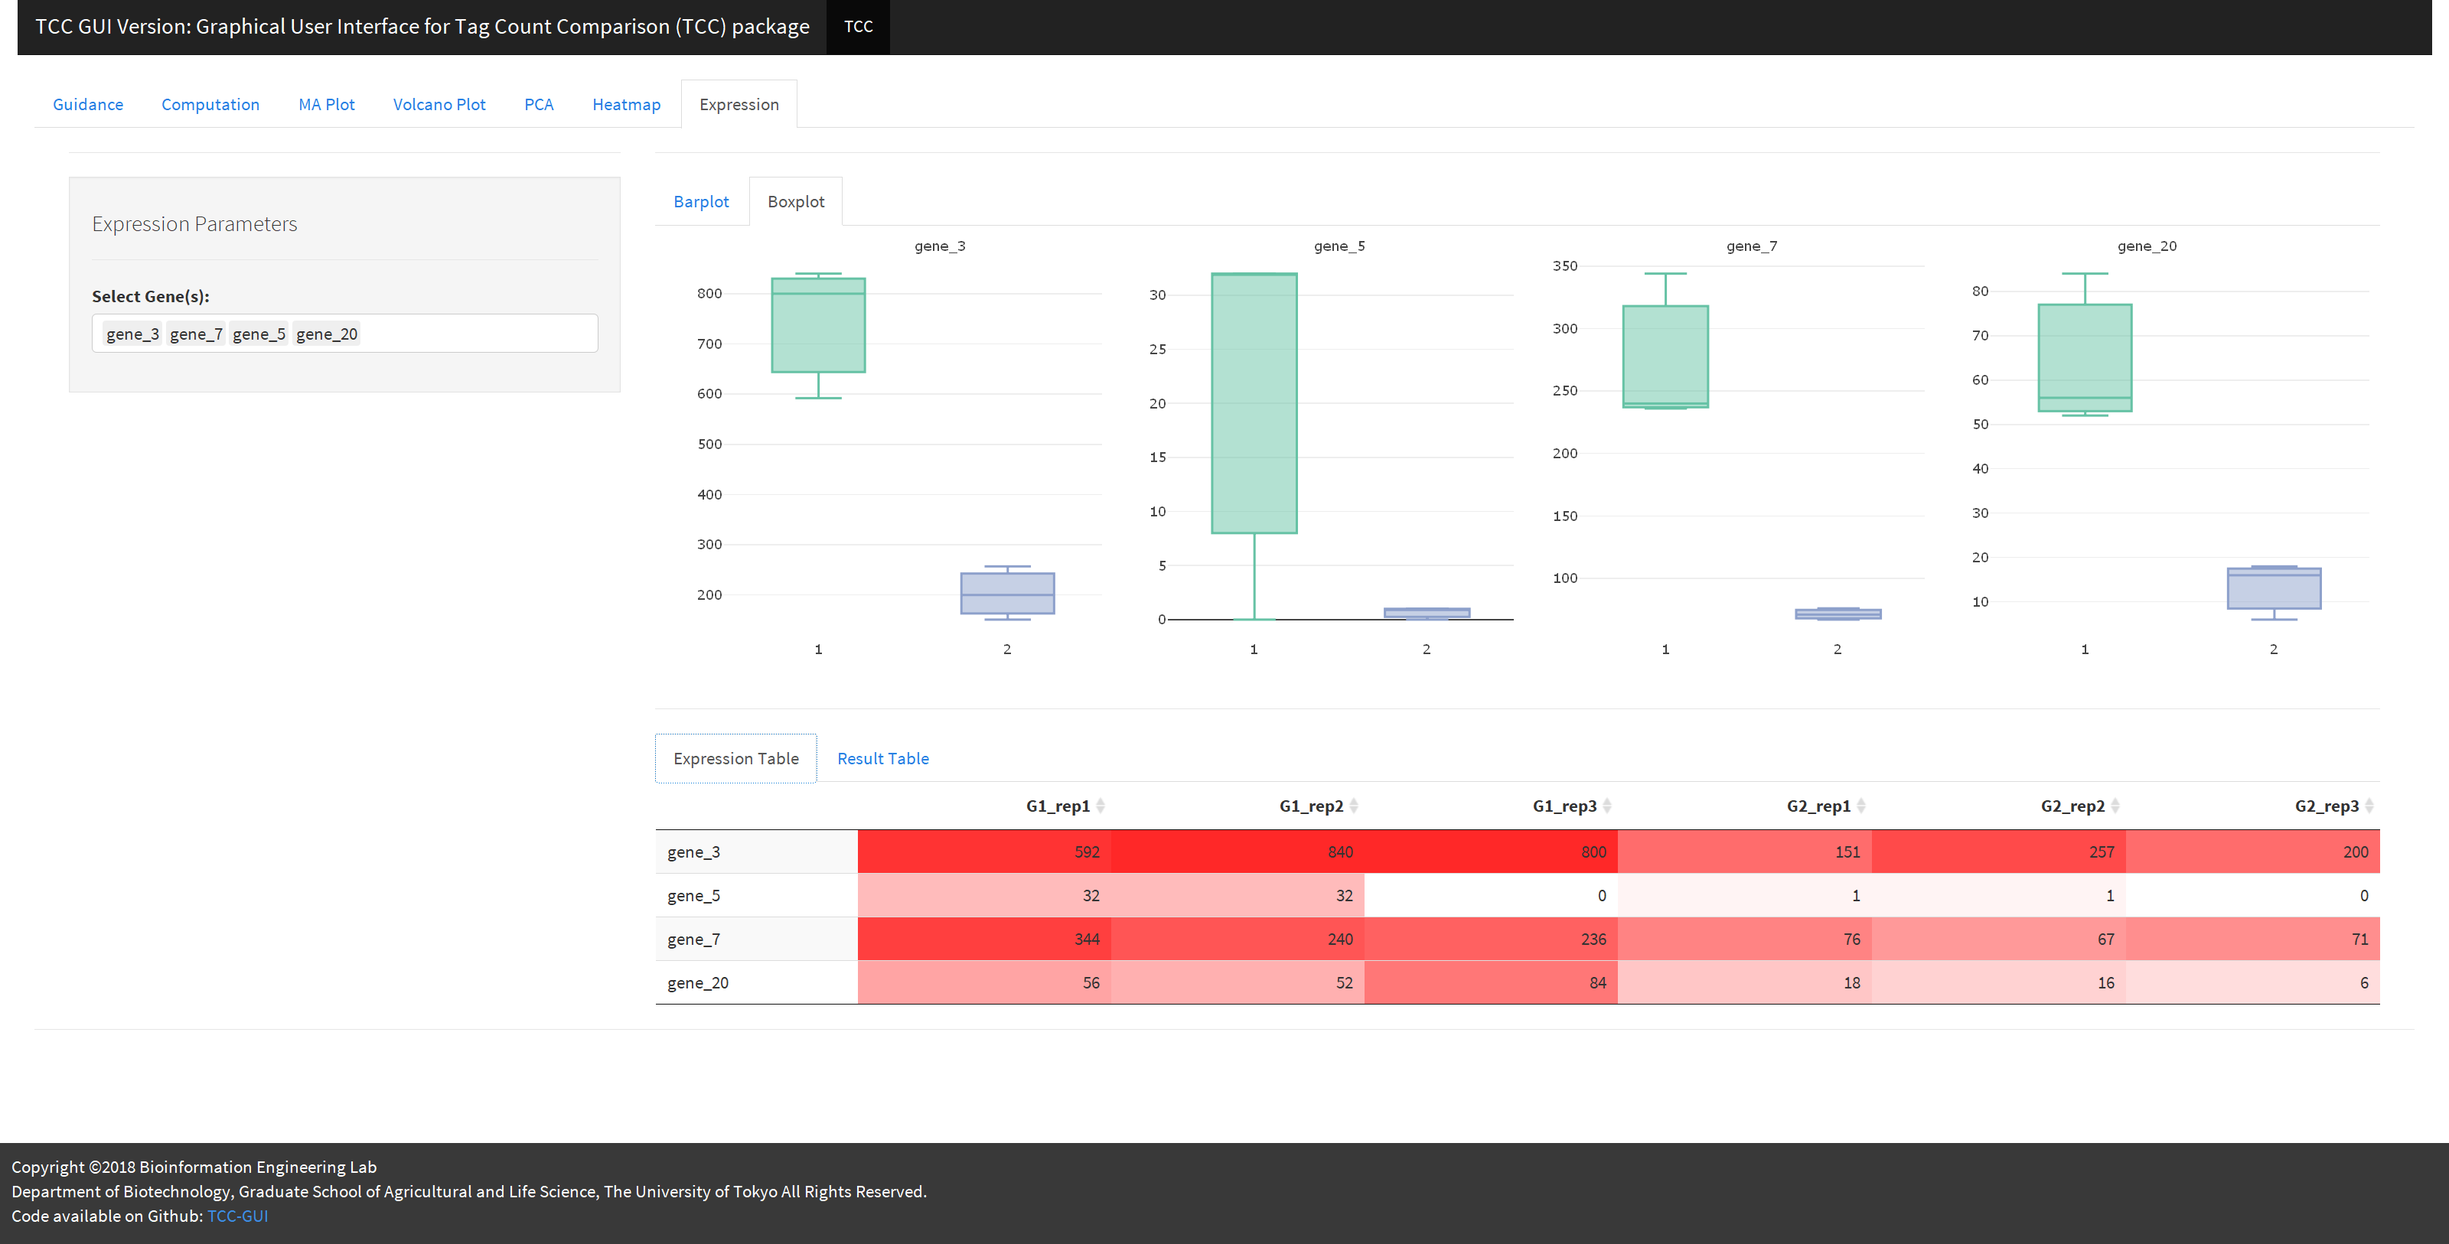
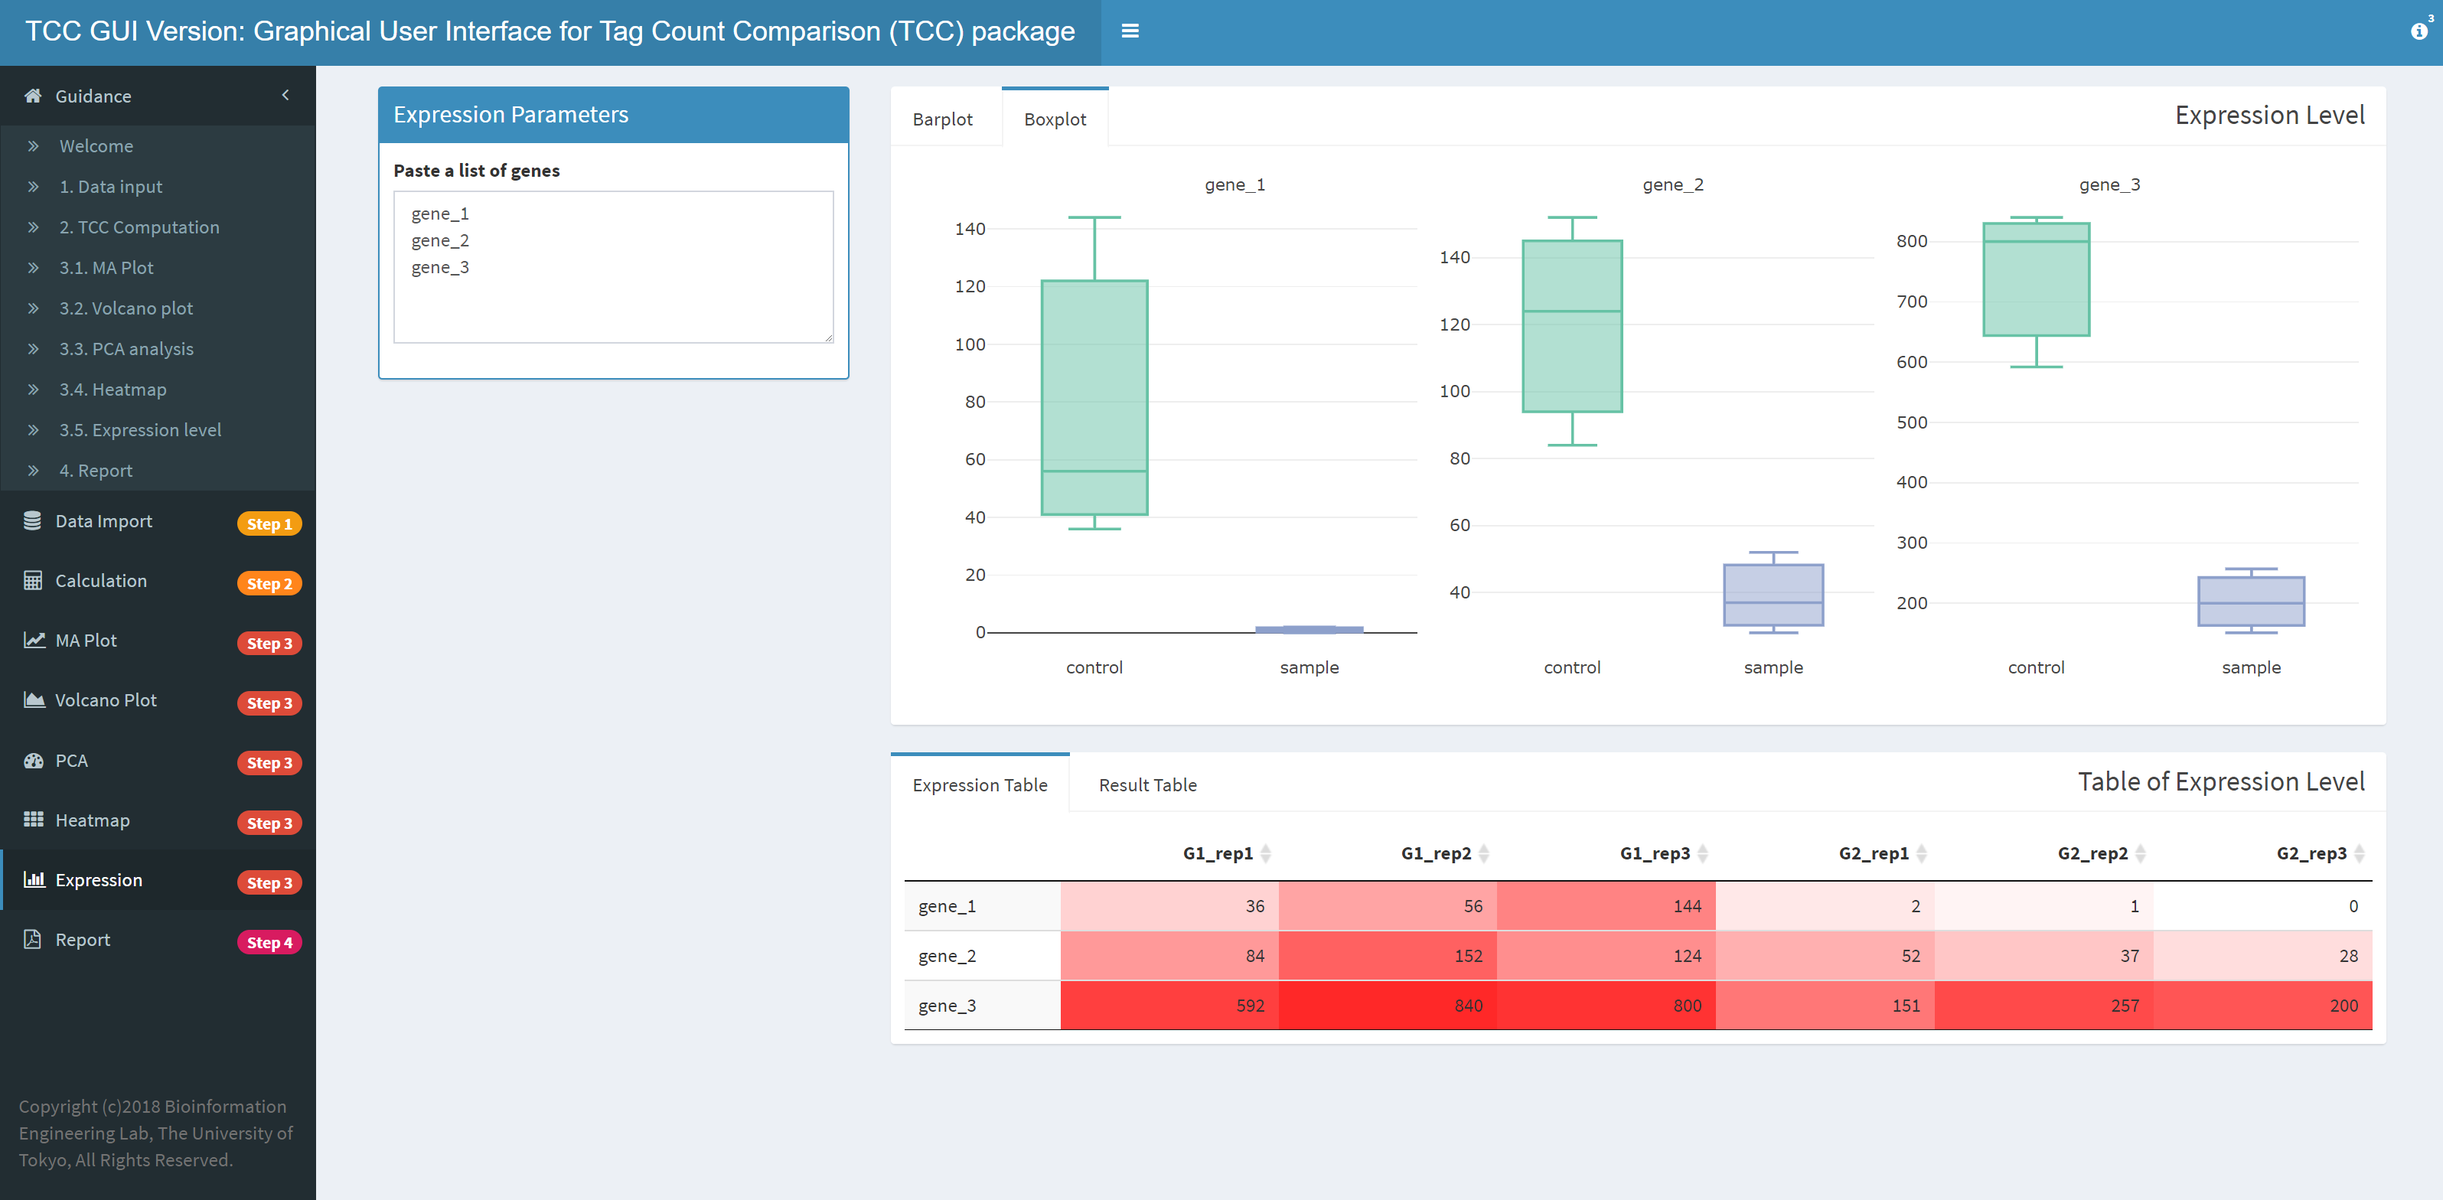
Update documents.

diff --git a/README.md b/README.md
@@ -16,26 +16,38 @@ Author: Jianqiang Sun, Tomoaki Nishiyama, Kentaro Shimizu, and Koji Kadota
 
 ---
 
-### 0. Installation
+**Note: Development is now undergoing, some function may be changed in the final version.**
 
-> The online version is **under developing**. Local version is **highly recommended** now.
+---
+
+
+
+### Online version
+
+Go to [TCC-GUI](https://infinityloop.shinyapps.io/TCC-GUI/).
+
+### Local version
 
 Make sure that you have already installed those packages in your environment.
 
-`shiny`, `shinythemes`, `shinyalert`, `plotly`, `colourpicker`, `TCC`, `DT`, `heatmaply`, `plotlyBars`.
+`shiny`, `shinydashboard`, `shinyWidgets`, `plotly`, `dplyr`, `TCC`, `DT`, `heatmaply`, `plotlyBars`, `markdown`, `data.table`, `RColorBrewer`, `utils`.
 
 If any package is missing, Please run the following command in your **RStudio** and it will install all packages automatically.
 
 ```R
 # Part1. Install via CRAN
 libs <- c("shiny",
-          "shinythemes", 
-          "shinyalert", 
+          "shinydashboard", 
+          "shinyWidgets", 
           "plotly", 
-          "colourpicker", 
+          "dplyr", 
           "DT", 
           "heatmaply"
-          "devtools")
+          "devtools",
+          "utils",
+          "markdown",
+          "data.table",
+          "RColorBrewer")
 
 for (i in libs){
   if( !is.element(i, .packages(all.available = TRUE)) ) {
@@ -62,86 +74,13 @@ Run the following command to launch `TCC-GUI` in your local environment.
 shiny::runGitHub("TCC-GUI", "swsoyee", subdir = "TCC-GUI")
 ```
 
-### <a name="Datainput"></a> 1. Data input
 
----
-- Click **"Computation"** tab on the top;
-
-- Click **"Load Sample Data"** button for test or Click **"Upload..."** button if you want to used your own count dataset.
-
-  <img src="https://raw.githubusercontent.com/swsoyee/TCC-GUI/master/TCC-GUI/www/RawCountTable_.png" width="750" height="545">
-
-### <a name="Computation"></a> 2. Computation
-
----
-- Input your group info in **Group Selection** section and click **"Confirmed"**, then the **"TCC Parameters"** Panel will show up;
-
-  <img src="https://raw.githubusercontent.com/swsoyee/TCC-GUI/master/TCC-GUI/www/GroupSelection_.png" width="359" height="325"> 
-
-- Change the parameters for computation (if you wish), and click the **"Run TCC"**.
-
-  <img src="https://raw.githubusercontent.com/swsoyee/TCC-GUI/master/TCC-GUI/www/TCC_.png" width="359" height="697">
-
-- After computation, **"Result Table"**, and series tab for other analysis will show up.
-
-  <img src="https://raw.githubusercontent.com/swsoyee/TCC-GUI/master/TCC-GUI/www/ResultTable_.png" width="753" height="560">
-
-### <a name="MAplot"></a> 3.1 MA plot
-
----
-- After computation, switch to **"MA Plot"** tab, and click **"Generate MA-Plot"** button;
-
-- Hover cursor on the point, and the additional information will be provided (Gene expression plot).
-
-  ![MA Plot](https://raw.githubusercontent.com/swsoyee/TCC-GUI/master/TCC-GUI/www/maplot1-md_.png)
-
-- If you want to mark some gene on the plot, please click the specific rows of gene, and click **"Generate MA-Plot" **button again to refresh the plot.
-
-  <img src="https://raw.githubusercontent.com/swsoyee/TCC-GUI/master/TCC-GUI/www/maplot2-md_.png" width="755" height="689">
-
-- (This is prerelease version. more functions need to be add in)
-
-### <a name="Volcanoplot"></a> 3.2 Volcano plot
-
----
-- Same as part of **MA Plot**.
- ![volcanoplot](https://raw.githubusercontent.com/swsoyee/TCC-GUI/master/TCC-GUI/www/volcanoplot_.png)
-- (This is prerelease version. more functions need to be add in)
-
-### <a name="PCAanalysis"></a> 3.3 PCA analysis
-
----
-- Change the parameters for PCA (if you wish), and click the **"Run"** button.
-
-  ![pca](https://raw.githubusercontent.com/swsoyee/TCC-GUI/master/TCC-GUI/www/pca_.png)
-
-- (This is prerelease version. more functions need to be add in)
-
-### <a name="Heatmap"></a> 3.4 Heatmap
-
----
-- Change the parameters for heatmap (if you wish), and click the **"Run"** button.
-
-  ![heatmap](https://raw.githubusercontent.com/swsoyee/TCC-GUI/master/TCC-GUI/www/heatmap_.png)
-
-- (This is prerelease version. more functions need to be add in)
-
-### <a name="Expression"></a> 3.5 Expression
-
----
-- Select gene(s) you want to plot in the left panel. **Barplot** and **Boxplot** are provided.
-   ![expression](https://raw.githubusercontent.com/swsoyee/TCC-GUI/master/TCC-GUI/www/expressionPlot_.png)
-
-- (This is prerelease version. more functions need to be add in)
-
-    
-
-### 3.6  Report output
----
-- Generate report in `Markdown`, `HTML` or `Word` (This function have not been finished). 
-
-### <a name="Morehelps"></a> 4. More helps
-
----
-
-- [Install Original TCC package from Bioconductor](http://www.bioconductor.org/packages/release/bioc/html/TCC.html)
+<img src="https://raw.githubusercontent.com/swsoyee/TCC-GUI/master/ScreenShot/dataImport.png">
+<img src="https://raw.githubusercontent.com/swsoyee/TCC-GUI/master/ScreenShot/calculation.png">
+<img src="https://raw.githubusercontent.com/swsoyee/TCC-GUI/master/ScreenShot/MAPlot.png">
+<img src="https://raw.githubusercontent.com/swsoyee/TCC-GUI/master/ScreenShot/VolcanoPlot.png">
+<img src="https://raw.githubusercontent.com/swsoyee/TCC-GUI/master/ScreenShot/PCA.png">
+<img src="https://raw.githubusercontent.com/swsoyee/TCC-GUI/master/ScreenShot/Heatmap.png">
+<img src="https://raw.githubusercontent.com/swsoyee/TCC-GUI/master/ScreenShot/MAPlot.png">
+<img src="https://raw.githubusercontent.com/swsoyee/TCC-GUI/master/ScreenShot/Expression.png">
+<img src="https://raw.githubusercontent.com/swsoyee/TCC-GUI/master/ScreenShot/report.png">

diff --git a/TCC-GUI/document/English_MA_plot.md b/TCC-GUI/document/English_MA_plot.md
@@ -1,13 +1,14 @@
-###  3.1 MA plot
+# What's MA Plot?
+An MA plot is an application of a Bland–Altman plot for visual representation of genomic data. The plot visualizes the differences between measurements taken in two samples, by transforming the data onto M (log ratio) and A (mean average) scales, then plotting these values. Though originally applied in the context of two channel DNA microarray gene expression data, MA plots are also used to visualise high-throughput sequencing analysis (quote from [wikipedia](https://en.wikipedia.org/wiki/MA_plot)).
+
 ---
-- After computation, switch to **"MA Plot"** tab, and click **"Generate MA-Plot"** button;
 
-- Hover cursor on the point, and the additional information will be provided (Gene expression plot).
-
-  ![MA Plot](../www/maplot1-md.png)
-
-- If you want to mark some gene on the plot, please click the specific rows of gene, and click **"Generate MA-Plot" **button again to refresh the plot.
-
-  ![MA Plot Marker](../www/maplot2-md.png)
-
-- (This is prerelease version. more functions need to be add in)
+1. Change parameters or just leave it as default, click **[Generate MA-Plot]** button, and the MA plot will show up in the middle of the page.  
+  ![MA plot parameters](../www/maPlotPara.png)
+2. If you want to check the infomation of specific point (transcript or gene), hover your cursor on the point, and the additional information will be print out (on the right side of the page, a expression level plot will also be provided).  
+  ![MA Plot](../www/maplot1.png)
+3. If you want to mark some genes on the plot, please click the specific rows of the gene in  **Result Table** panel, and click **[Generate MA-Plot]** button again to refresh the plot.   
+  ![MA Plot](../www/maplot2.png)
+4. On the left of the page, you will see lots of different FDR cut off and the count of DEGs in  **FDR vs DEGs** panel.  
+  ![FDR vs DEGs](../www/fdrDegs.png)  
+5. On the right of the page, R code of MA Plot is also provided.   

diff --git a/TCC-GUI/document/English_Welcome.md b/TCC-GUI/document/English_Welcome.md
@@ -1,0 +1,37 @@
+# What's TCC?  
+---
+![TCC LOGO](../www/tccLogo.png)
+
+**TCC (Differential expression analysis for tag count data with robust normalization strategies)** is a package provides a series of functions for performing differential expression analysis from RNA-seq count data using robust normalization strategy (called **DEGES**).   
+
+The basic idea of **DEGES** is that potential differentially expressed genes or transcripts (**DEGs**) among compared samples should be removed before data normalization to obtain a well-ranked gene list where true **DEGs** are top-ranked and **non-DEGs** are bottom ranked.   
+
+This can be done by performing a multi-step normalization strategy (called **DEGES** for **DEG elimination strategy**).  
+
+A major characteristic of **TCC** is to provide the robust normalization methods for several kinds of count data (**two-group with or without replicates**, **multi-group/multi-factor**, and so on) by virtue of the use of combinations of functions in depended packages.
+
+Author: Jianqiang Sun, Tomoaki Nishiyama, Kentaro Shimizu, and Koji Kadota
+
+GUI Version Developer: Wei Su  
+
+
+
+# TCC-GUI Version: Graphical User Interface for Tag Count Comparison (TCC) package
+---
+In this **GUI version of TCC**, all parameter settings are available just like you are using the original one. Besides, the **GUI version** also provide lots of plotting function where the original package is unsupported now. 
+
+#### Function
+
+- Sample Distribution Plot
+- TCC Computation
+- MA Plot
+- Volcano Plot
+- PCA Analysis (clustering included)
+- Heatmap Plot (clustering included)
+- Expression Level Plot
+- Output result in table, figure, code or report (.md, .pdf)
+
+Please check other tab in Guidance for details.  
+
+If you have any question about the application, comment and advise, please go to [github](https://github.com/swsoyee/TCC-GUI/issues) and open a issue (you can write in English, Chinese or Japanese as you like).
+

diff --git a/TCC-GUI/document/English_Computation.md b/TCC-GUI/document/English_Computation.md
@@ -1,16 +1,9 @@
-###  2. Computation
-
----
-- Select **"Group Count"** and click **"Confirmed"** button;
-
-- Select columns name of your dataset for grouping and click **"Confirmed"**, then the **"TCC Parameters"** Panel will show up;
-
-  ![Group Selection](../www/GroupSelection.png)
-
-- Change the parameters for computation (if you wish), and click the **"Run TCC"**.
-
-  ![TCC Parameters](../www/TCC.png)
-
-- After computation, **"Result Table"**, and series tab for other analysis will show up.
-
-  ![Result Table](../www/ResultTable.png)
+1. Click **[Calculation]** tab in the sider bar on the left of this page.   
+  ![calculation tab](../www/calculationTab.png)  
+2. You can change all the parameters of TCC calculation or just leave it as default. Click **[Run]** button and wait for calculation finished. Depends on your size of dataset, method you have chosen and the interation number, it will take several seconds to 2 minutes for calculation.  
+  ![TCC parameter](../www/TCC.png)  
+3. After calculation, **[Result Table]** will show on the right of the page. **[Sample Distribution]** of before normalization and after will be drawn simultaneously.  
+  ![boxplot normalization](../www/boxplotNor.png)  
+  ![densityplot normalization](../www/densityplotNor.png)  
+  Besides, you can copy and save the **R code of TCC calculation** (under TCC parameters panel) in the purpose of code studying or reproducing the same results on a local machine.   
+4. Next, **Step3** & **Step4** tab will show up in the slider bar. you can choose any of them for the next step of your analysis.    

diff --git a/TCC-GUI/document/English_Data_input.md b/TCC-GUI/document/English_Data_input.md
@@ -1,7 +1,12 @@
-### 1. Data input
----
-- Click **"Computation"** tab on the top;
-
-- Click **"Load Sample Data"** button for test or Click **"Upload..."** button if you want to used your own count dataset.
-
-  ![Raw Count Table](../www/RawCountTable.png)
+1. First, click **[Data Import (Step 1)]** tab in the sider bar on the left of this page.  
+  ![data import tab](../www/dataImportTab.png)  
+2. At the left of the top, you can **[Load Sample Data]** just for a test, or click **[Upload]** data tab for uploading your own dataset. Please make sure it's a **count data** file and just numeric value in the file (except column and row name). If you are going to upload large dataset to the application, please wait until the file has been uploaded completely.  
+  ![load sample data](../www/loadData.png)  
+  Data will be shown after finishing loaded.  
+  ![load sample data](../www/RawCountTable.png)  
+3. After the dataset loaded, input your grouping into the **[Group Selection]** panel. 
+   - First column is your sample name (the same as the column's name of your input dataset), only the columns which are listed at here will be included into analysis.   
+   - Second column is your grouping name (such as "control" or "sample")  
+     ![group selection](../www/GroupSelection.png)  
+4. Click **[Confirmed]** button, wait for a while, and the **[Summary of Data]** and **[Sample Distribution]** will show more information of your dataset. You can modify the plot and save them for the purpose of studying or publishing.  
+  ![summary of data](../www/summaryOfData.png)  

diff --git a/TCC-GUI/document/English_Volcano_plot.md b/TCC-GUI/document/English_Volcano_plot.md
@@ -1,7 +1,8 @@
-###  3.2 Volcano plot
+# What's Volcano Plot?
+In statistics, a volcano plot is a type of scatter-plot that is used to quickly identify changes in large data sets composed of replicate data. It plots significance versus fold-change on the y and x axes, respectively. These plots are increasingly common in omic experiments such as genomics, proteomics, and metabolomics where one often has a list of many thousands of replicate data points between two conditions and one wishes to quickly identify the most meaningful changes (quote from [wikipedia](https://en.wikipedia.org/wiki/Volcano_plot_(statistics))).  
 
 ---
-Same as part of **MA Plot**.
-![volcanoplot](../www/volcanoplot.png)
+Almost the same as **[MA Plot]**. Please check the document of MA Plot.  
 
-- (This is prerelease version. more functions need to be add in)
+![volcanoplot parameters](../www/volcanoPlotPara.png)  
+![volcanoPlot](../www/volcanoplot.png)  

diff --git a/TCC-GUI/document/English_PCA_analysis.md b/TCC-GUI/document/English_PCA_analysis.md
@@ -1,10 +1,13 @@
-###  3.3 PCA analysis
 
----
-- Change the parameters for PCA (if you wish), and click the **"Run"** button.
 
-  ![PCA Parameters](../www/PCAParameters.png)
-
-  ![pca](../www/pca.png)
-
-- (This is prerelease version. more functions need to be add in)
+1. Change the parameters for PCA (if you wish), and click the **[Run]** button.  
+  ![PCA Parameters](../www/PCAParameters.png)  
+2. There are four plots provided:  
+    - 3D  
+      ![3d](../www/3d.png)  
+    - 2D  
+      ![2d](../www/2d.png)  
+    - Cluster  
+      ![cluster](../www/cluster.png)  
+    - Variances  
+      ![variance](../www/variances.png)  

diff --git a/TCC-GUI/document/English_Heatmap.md b/TCC-GUI/document/English_Heatmap.md
@@ -1,10 +1,4 @@
-###  3.4 Heatmap
-
----
-- Change the parameters for heatmap (if you wish), and click the **"Run"** button.
-
-  ![Heatmap Parameters](../www/HeatmapParameters.png)
-
-  ![heatmap](../www/heatmap.png)
-
-- (This is prerelease version. more functions need to be add in)
+1. You can select genes by two method, **By list** and **By FDR**.  
+  ![Heatmap Parameters](../www/HeatmapParameters.png)  
+2. Change the parameters for heatmap (if you wish), and click the **[Run]** button.  
+  ![heatmap](../www/heatmap.png)  

diff --git a/TCC-GUI/document/English_Expression.md b/TCC-GUI/document/English_Expression.md
@@ -1,7 +1,4 @@
-###  3.5 Expression
+Select gene(s) you want to plot in the left panel. **Barplot** and **Boxplot** are provided.  
+![expression parameters](../www/expressionPara.png)  
 
----
-- Select gene(s) you want to plot in the left panel. **Barplot** and **Boxplot** are provided.
-   ![expression](../www/expressionPlot.png)
-
-- (This is prerelease version. more functions need to be add in)
+![expression](../www/expressionPlot.png)  

diff --git a/TCC-GUI/document/English_More_help.md b/TCC-GUI/document/English_More_help.md
@@ -1,5 +1,8 @@
-###  4. More helps
+### Logs function  
+Coming soon.  
 
----
+### Report function  
+Coming soon.  
 
-- [Install Original TCC package from Bioconductor](http://www.bioconductor.org/packages/release/bioc/html/TCC.html)
+###  More helps  
+[Install Original TCC package from Bioconductor](http://www.bioconductor.org/packages/release/bioc/html/TCC.html)  
